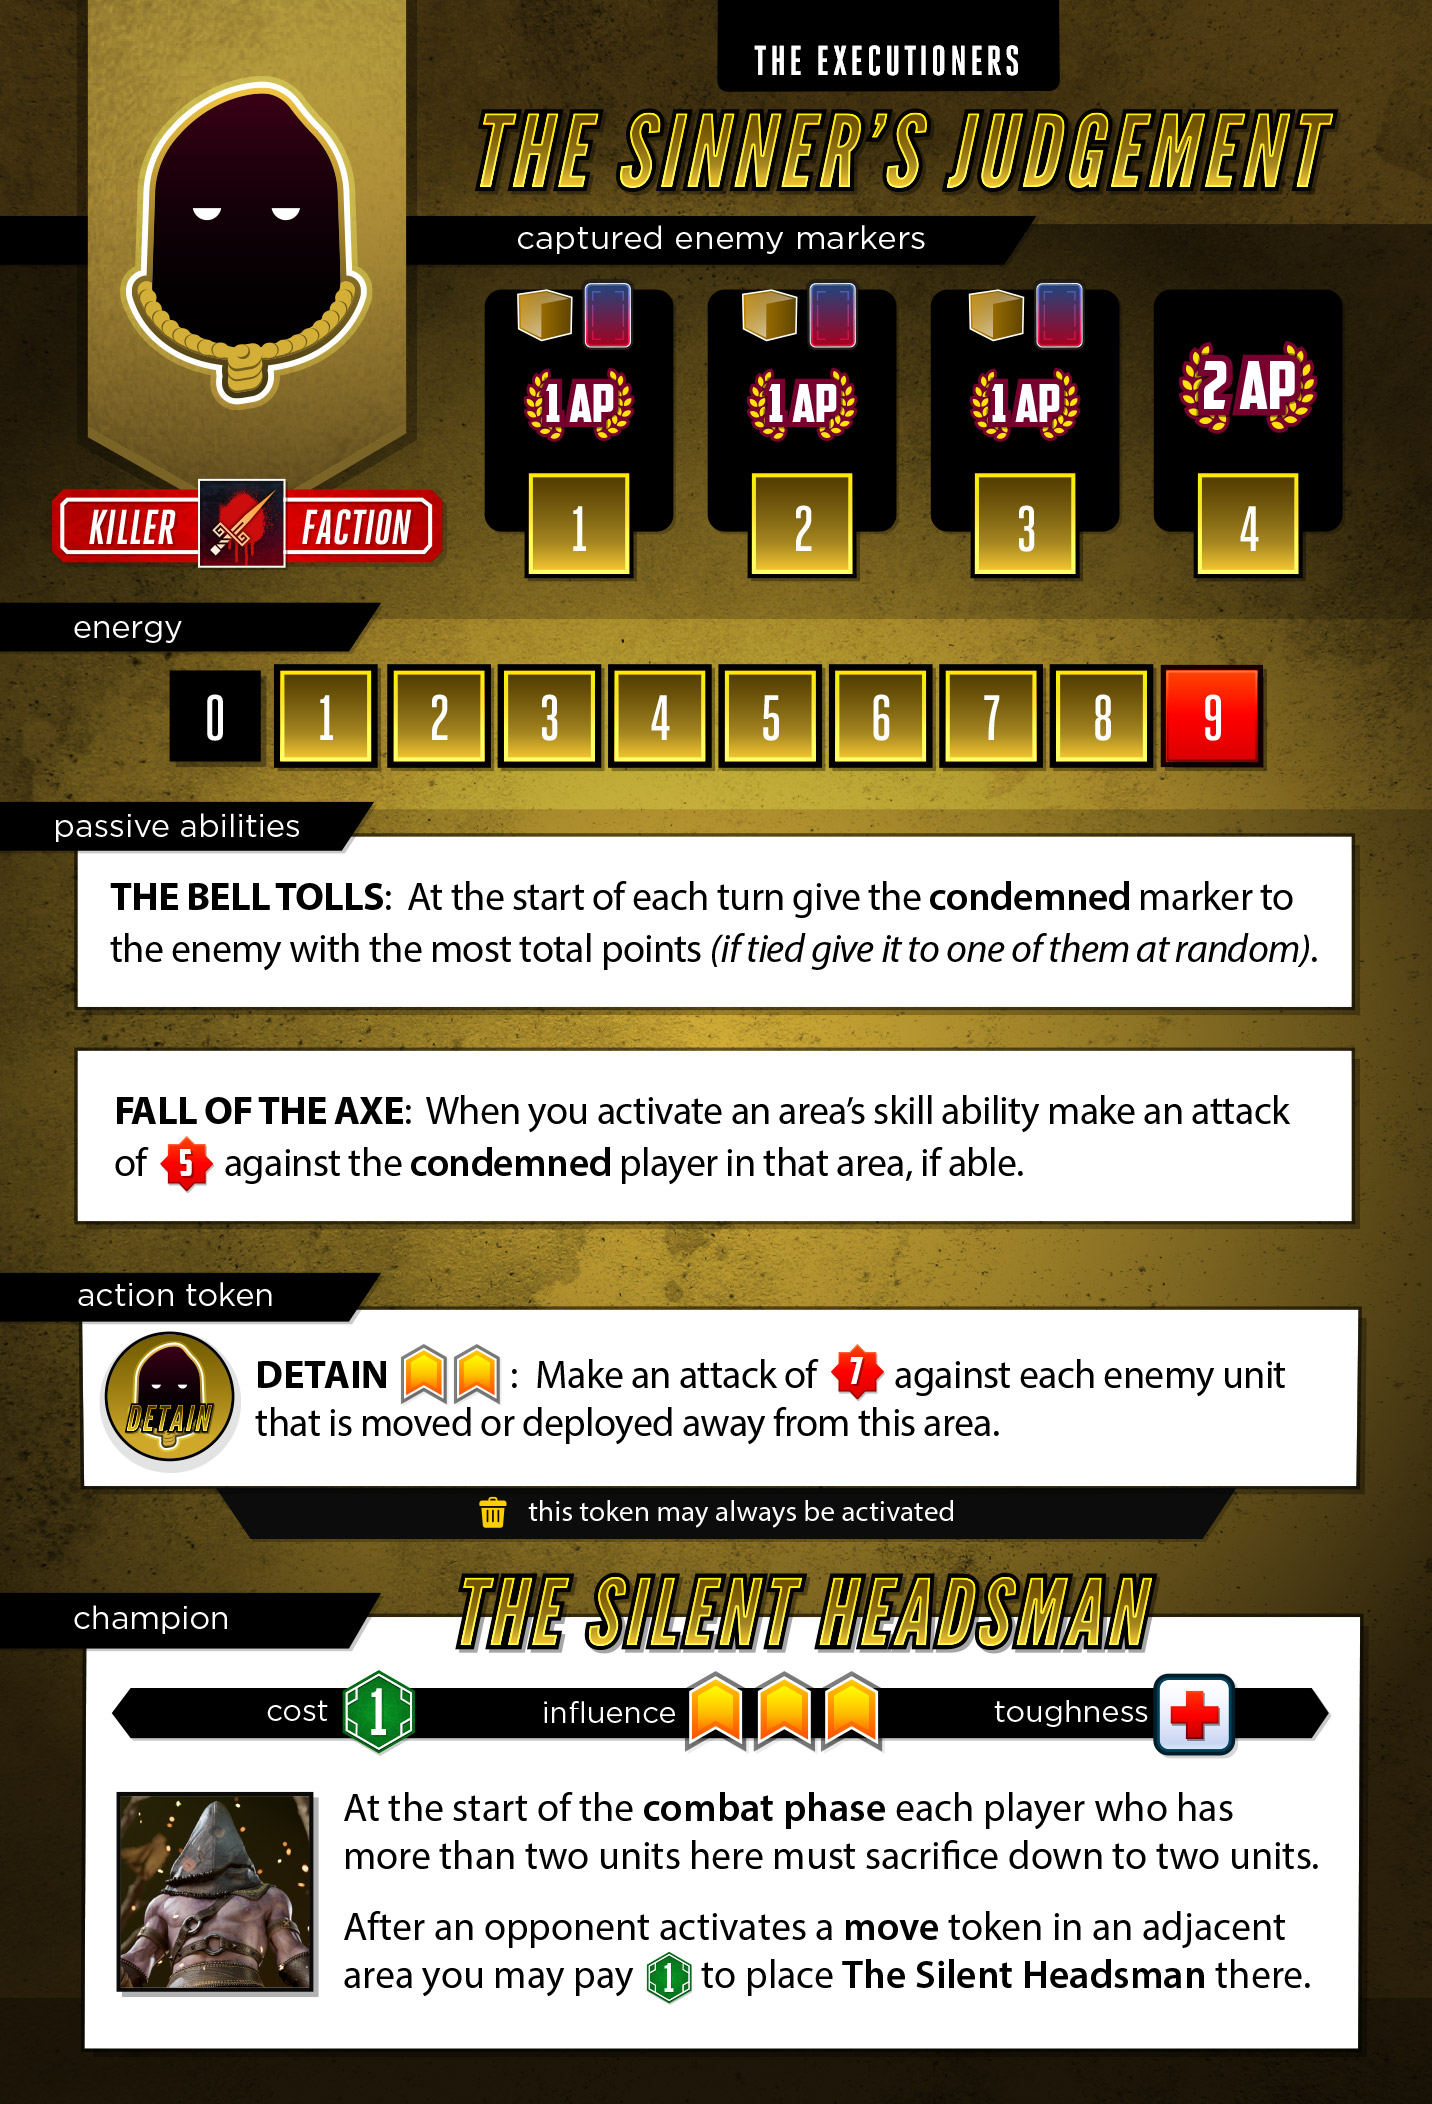
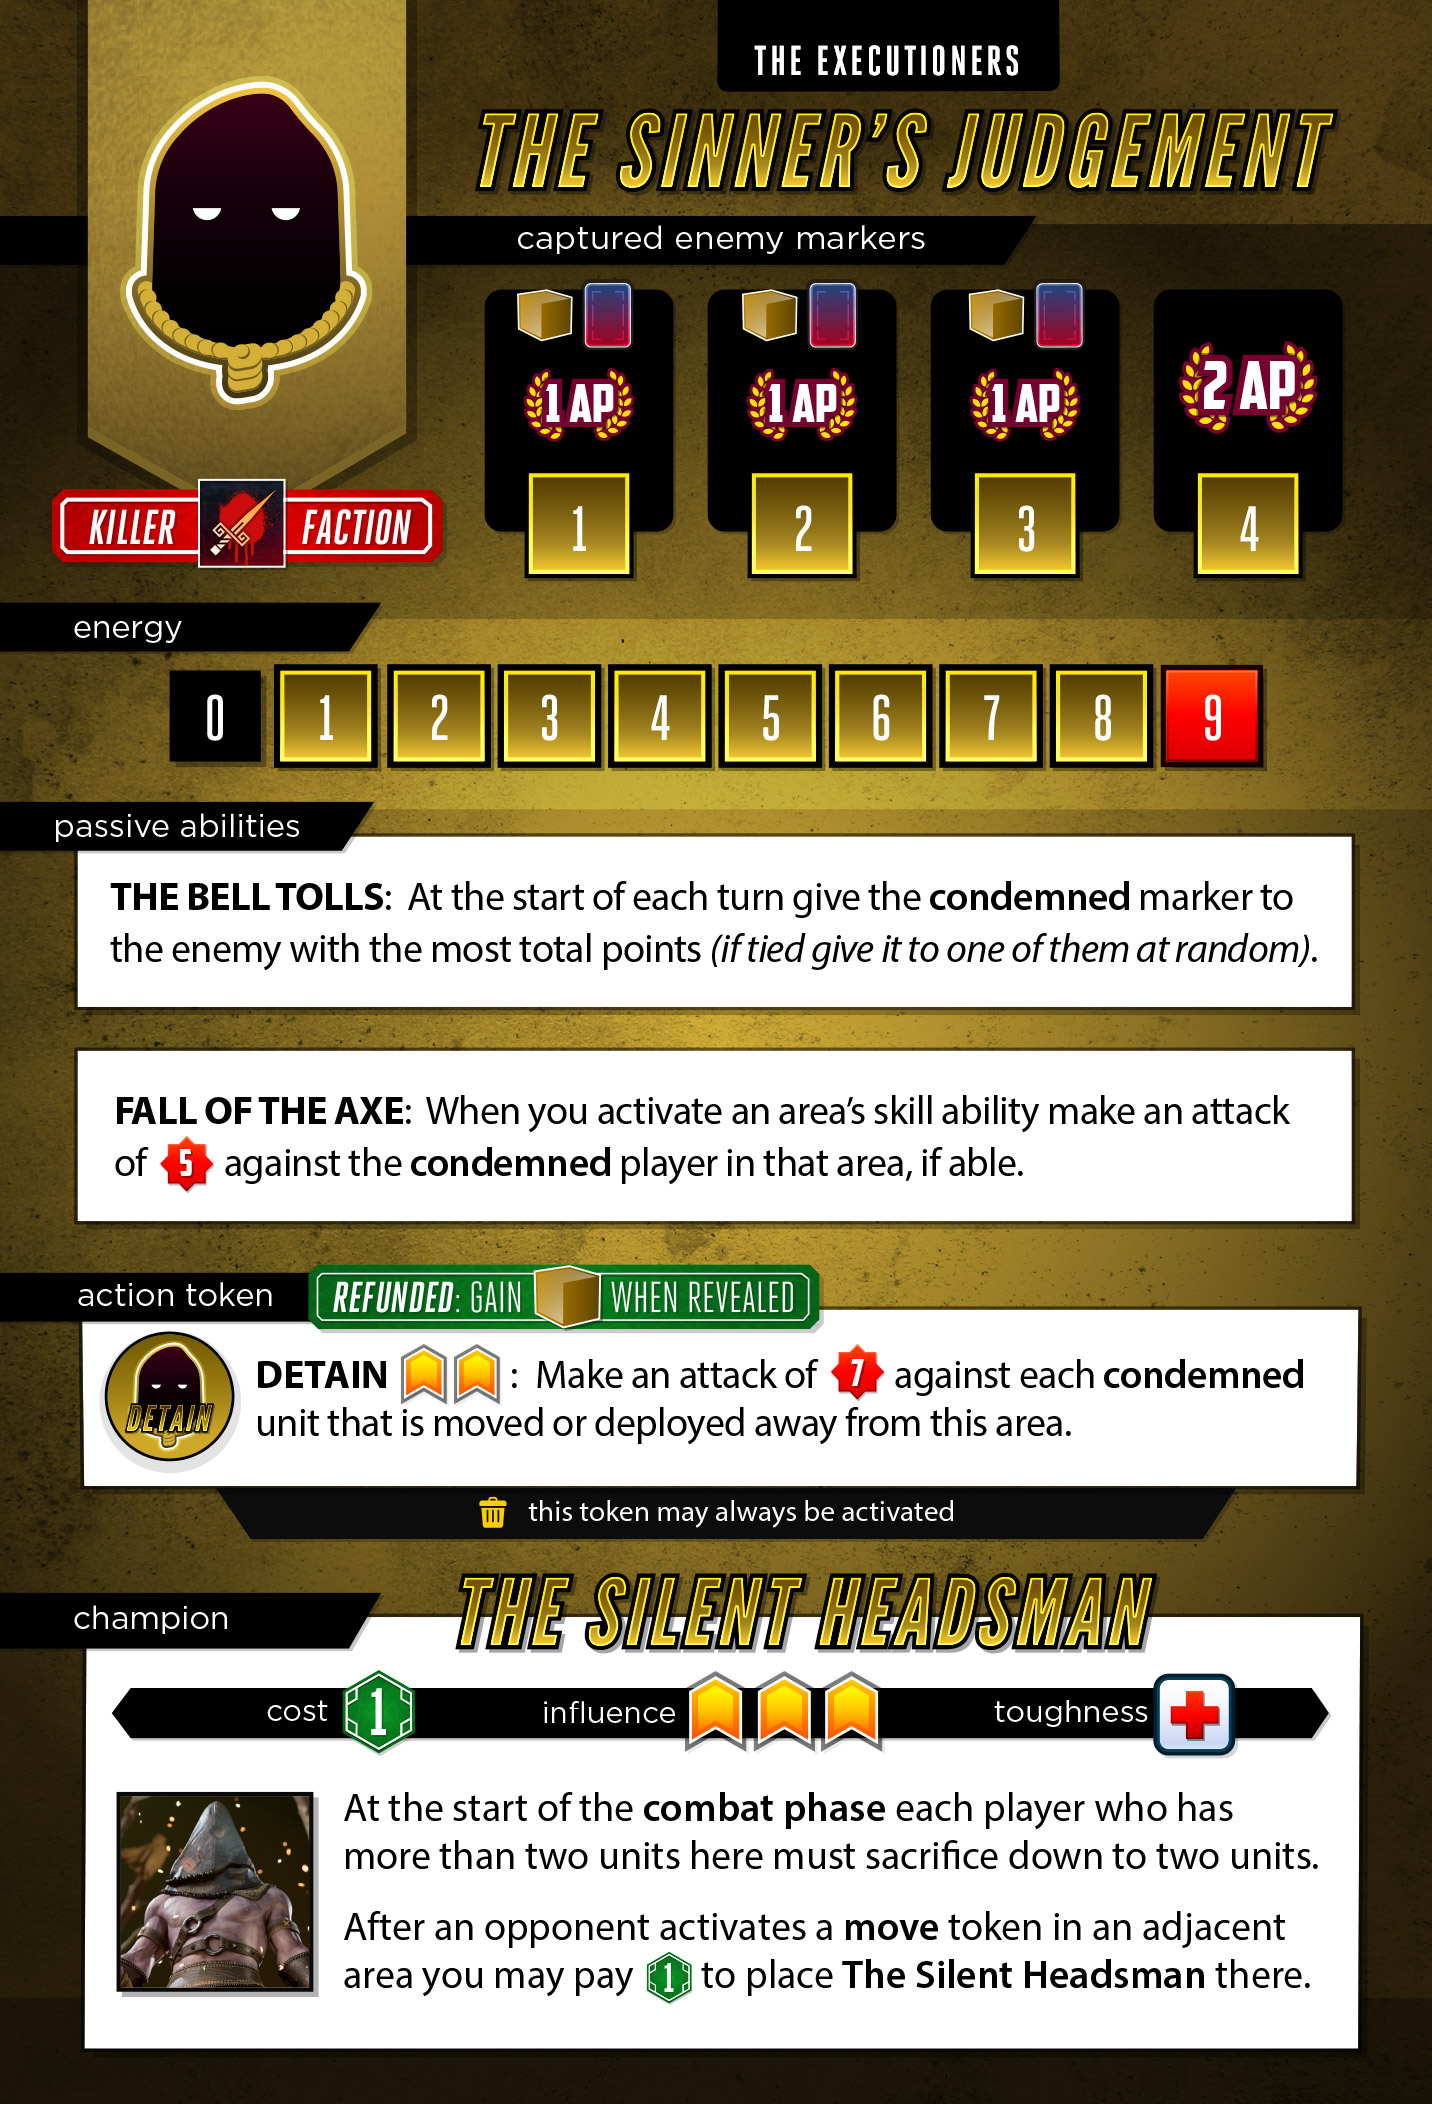
EXECUTIONERS: tweak detain token

Changed region(s): [[0.2151, 0.587, 0.7067, 0.6797], [0.7682, 0.6488, 0.9218, 0.6797], [0.1844, 0.6488, 0.2151, 0.6797]]

diff --git a/server/classes/factions/Executioners.js b/server/classes/factions/Executioners.js
@@ -34,6 +34,7 @@ class Executioners extends Faction {
             data: {
                 cost : 0,
                 influence: 2,
+                resource: 1,
                 type : 'detain',
                 areaStat : true,
                 description: `Make an attack of ${this.data.detainAttack} against each enemy unit that is moved or deployed away from this area`,
@@ -335,7 +336,7 @@ class Executioners extends Faction {
 
         for(let unitEvent of event.units){
             let unit = unitEvent.unit;
-            if( this.data.detainedArea && unit.faction !== this.name && this.data.detainedArea === unitEvent.from ){
+            if( this.data.detainedArea && unit.faction === this.data.condemned && this.data.detainedArea === unitEvent.from ){
                 let result = await this.detainAttack( unit );
                 if(result) kills.push( result );
             }
